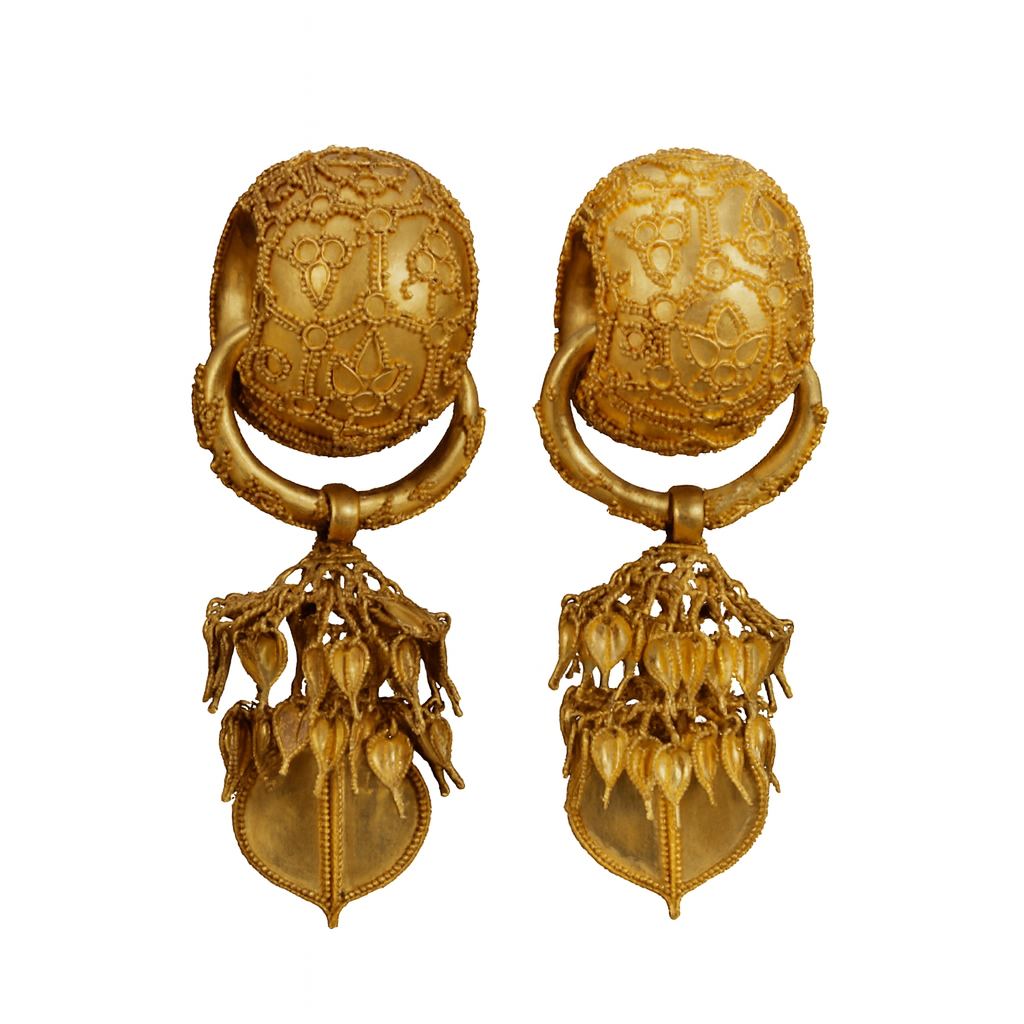
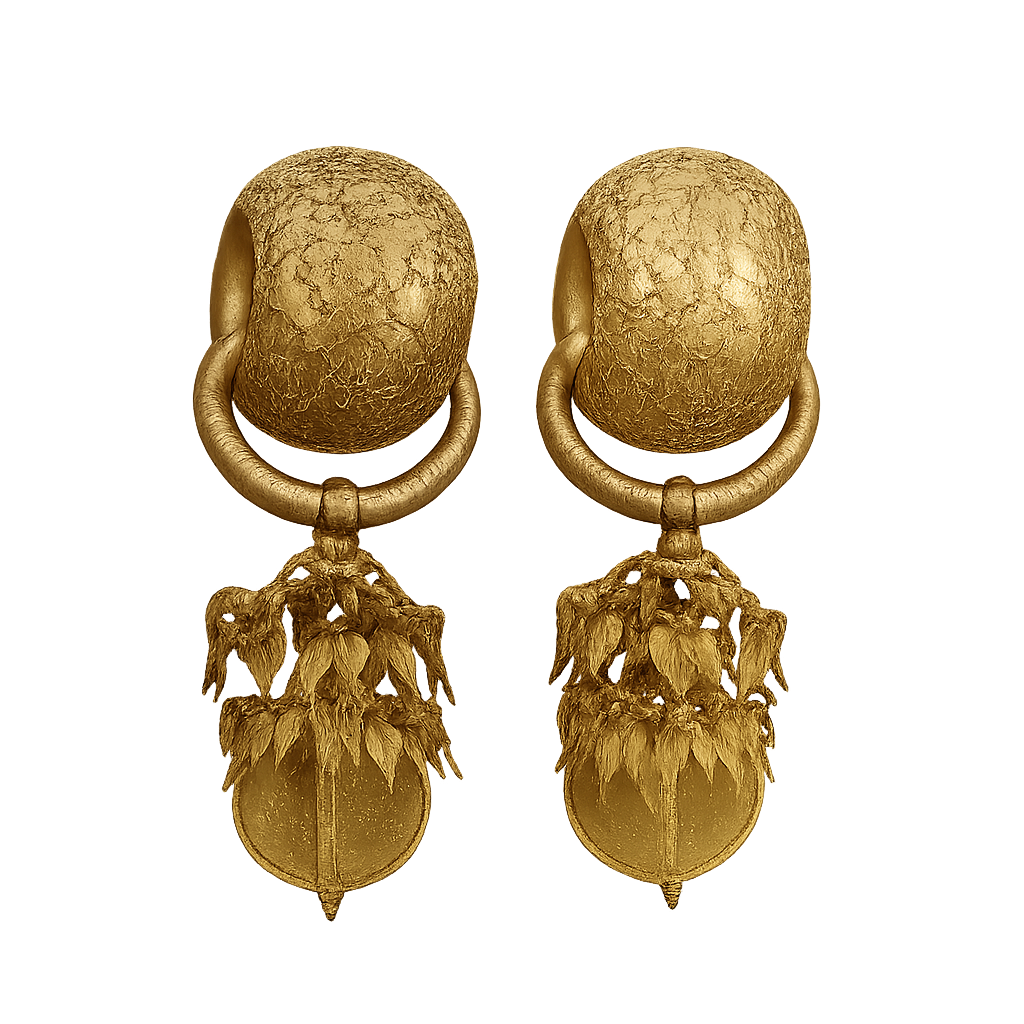
dd

Changed region(s): [[0.1875, 0.125, 0.8125, 0.9062]]

diff --git a/css/map_style.css b/css/map_style.css
@@ -1,10 +1,5 @@
 @charset "urf-8";
 
-.inner {
-    width: 1686px;
-    margin-inline: auto;
-}
-
 .sub {
     display: flex;
     align-items: center;
@@ -32,34 +27,38 @@
 
 .map_content {
     width: 100%;
-    background: blue;
-    padding: 45px 0;
+    background: lightskyblue;
+    margin-top: 45px;
 }
 
 /* 내부 레이아웃 */
+.map_content .right{
+    display: flex;
+    flex-direction: column;
+    gap: 48px;
+}
 .map_content .inner {
-    background: lightcoral;
-    /* width: 100%; */
-    /* padding: 0 117px; */
+    width: 100%;
+    padding: 0 117px;
     /* margin: 0 auto; */
     display: flex;
     justify-content: space-between;
-    /* align-items: flex-start; */
+    align-items: flex-start;
     /* gap: 255px; */
 }
 
-.map_content .left {
-    min-width: 632px;
-    background: #ccc;
-}
-
 /* 왼쪽 텍스트 박스 */
+.map_content .left {
+    display: flex;
+    
+    width: 632px;
+}
 .txt_box {
-    /*     min-width: 632px; */
-    flex: 1.2;
+    /* flex: 1.2; */
     display: flex;
     flex-direction: column;
     justify-content: flex-start;
+    border-bottom: 1px dashed #59574D;
 }
 
 /* 제목 */
@@ -130,17 +129,17 @@
     font-size: 25px;
     line-height: 140%;
     max-width: 520px;
-    background: pink;
 }
 
 /* 구분선 */
-.txt_box>div:nth-of-type(3) {
+/* .txt_box>div:nth-of-type(3) {
     border-bottom: 1px solid var(--gray-03);
     margin: 32px 0;
-}
+} */
 
 /* Highlighted Artifact */
 .highlighted_artifact {
+    width: 100%;
     margin-top: 40px;
 }
 
@@ -159,21 +158,12 @@
 
 .arts li {
     text-align: left;
-    width: 143px;
-}
-
-.arts .img_box {
-    display: flex;
-    justify-content: center;
-    width: 100%;
-    height: 110px;
-    background: var(--yellow-03);
 }
 
 .arts img {
-    height: 100%;
-    /* width: 100%; */
+    width: 100%;
     border-radius: 6px;
+    background: var(--yellow-03);
     margin-bottom: 10px;
 }
 
@@ -185,17 +175,17 @@
 
 /* 오른쪽 지도 영역 */
 .map_right {
-    width: 798px;
-    height: 480px;
+    /* width: 798px;
+    height: 481px; */
+    flex: 1.2;
     display: flex;
     justify-content: center;
     align-items: flex-start;
-    background: #ddd;
 }
 
 .map_right img {
-    width: 100%;
-    height: auto;
+    width: 798px;
+    height: 481px;
     max-width: 800px;
 }
 

diff --git a/html/map.html b/html/map.html
@@ -10,7 +10,6 @@
     <title>NMK</title>
     <link rel="shortcut icon" href="../asset/favicon.ico" type="image/x-icon">
     <link rel="stylesheet" href="../css/reset.css">
-    <!-- <link rel="stylesheet" href="../css/main_style.css"> -->
     <link rel="stylesheet" href="../css/common.css">
     <link rel="stylesheet" href="../css/map_style.css">
     <script src="https://kit.fontawesome.com/d471c8851f.js" crossorigin="anonymous"></script>
@@ -18,6 +17,7 @@
     <script src="js/main.js"></script>
 </head>
 
+<body>
 <div class="wrap">
     <header>
         <div class="inner">
@@ -50,6 +50,7 @@
         </div><!-- //.sub -->
         <div class="map_content">
             <div class="inner">
+                <div class="rigth">
                 <!-- 페이지 제목 + 층 탭 -->
                 <div class="left">
                     <div class="txt_box">
@@ -70,7 +71,7 @@
                                 cultural achievements.
                             </p>
                         </div>
-                        <div>--------------------------------</div>
+
                     </div>
                     <div class="highlighted_artifact">
                         <h4>Highlighted Artifact</h4>
@@ -98,6 +99,7 @@
                         </ul>
                     </div>
                 </div>
+                
                 <!-- 지도 이미지 -->
                 <div class="map_right">
                     <img src="../asset/img/museum_map_1f.png" alt="Museum 1F Map">
@@ -109,7 +111,5 @@
 
     </footer>
 </div><!-- //.wrap -->
-<!-- 왼쪽 텍스트 + 오른쪽 지도 -->
-
-
+</body>
 </html>
